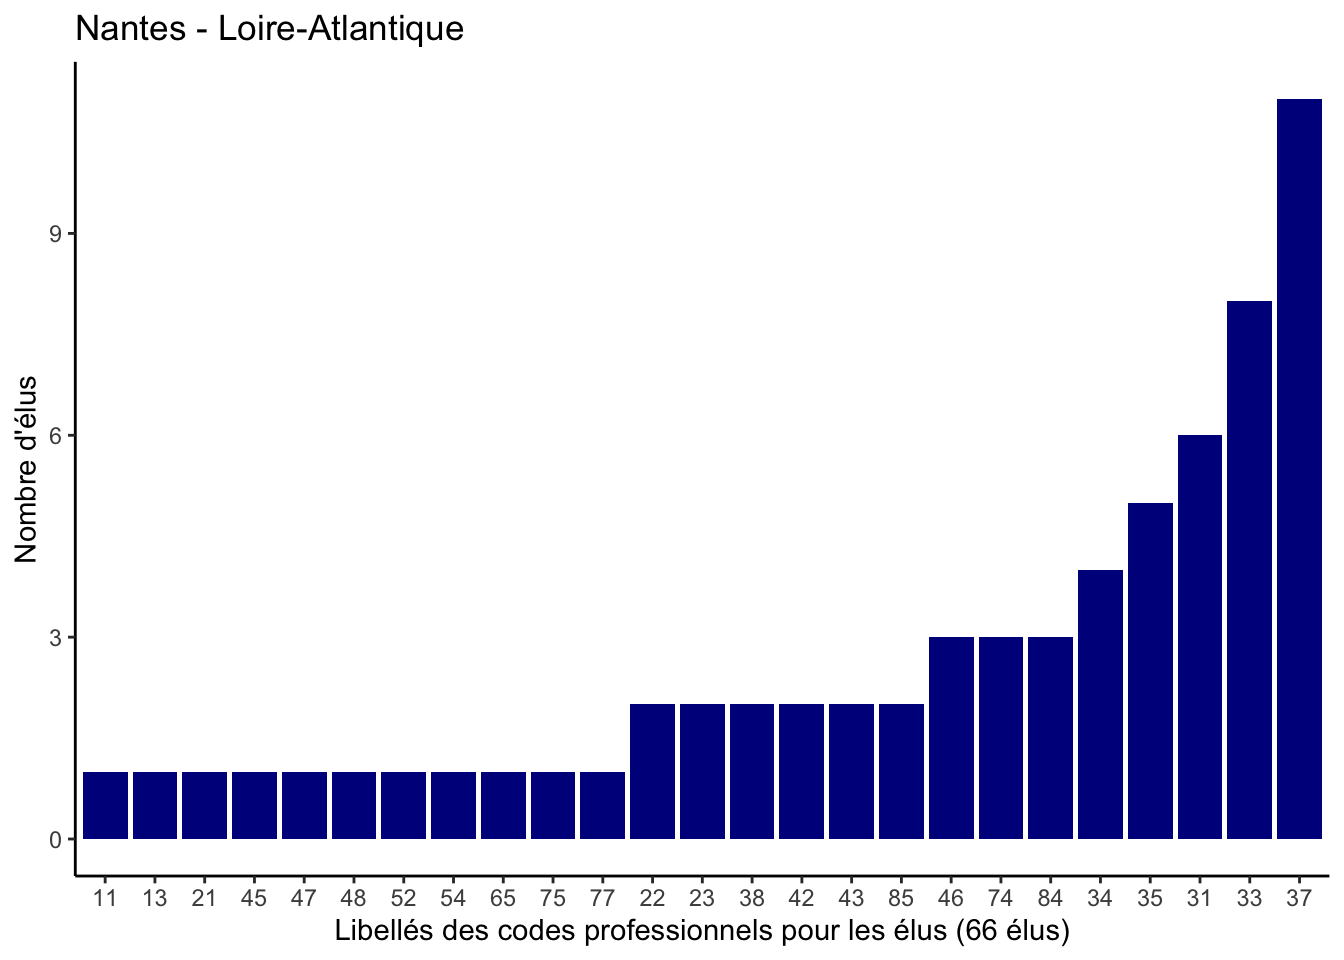
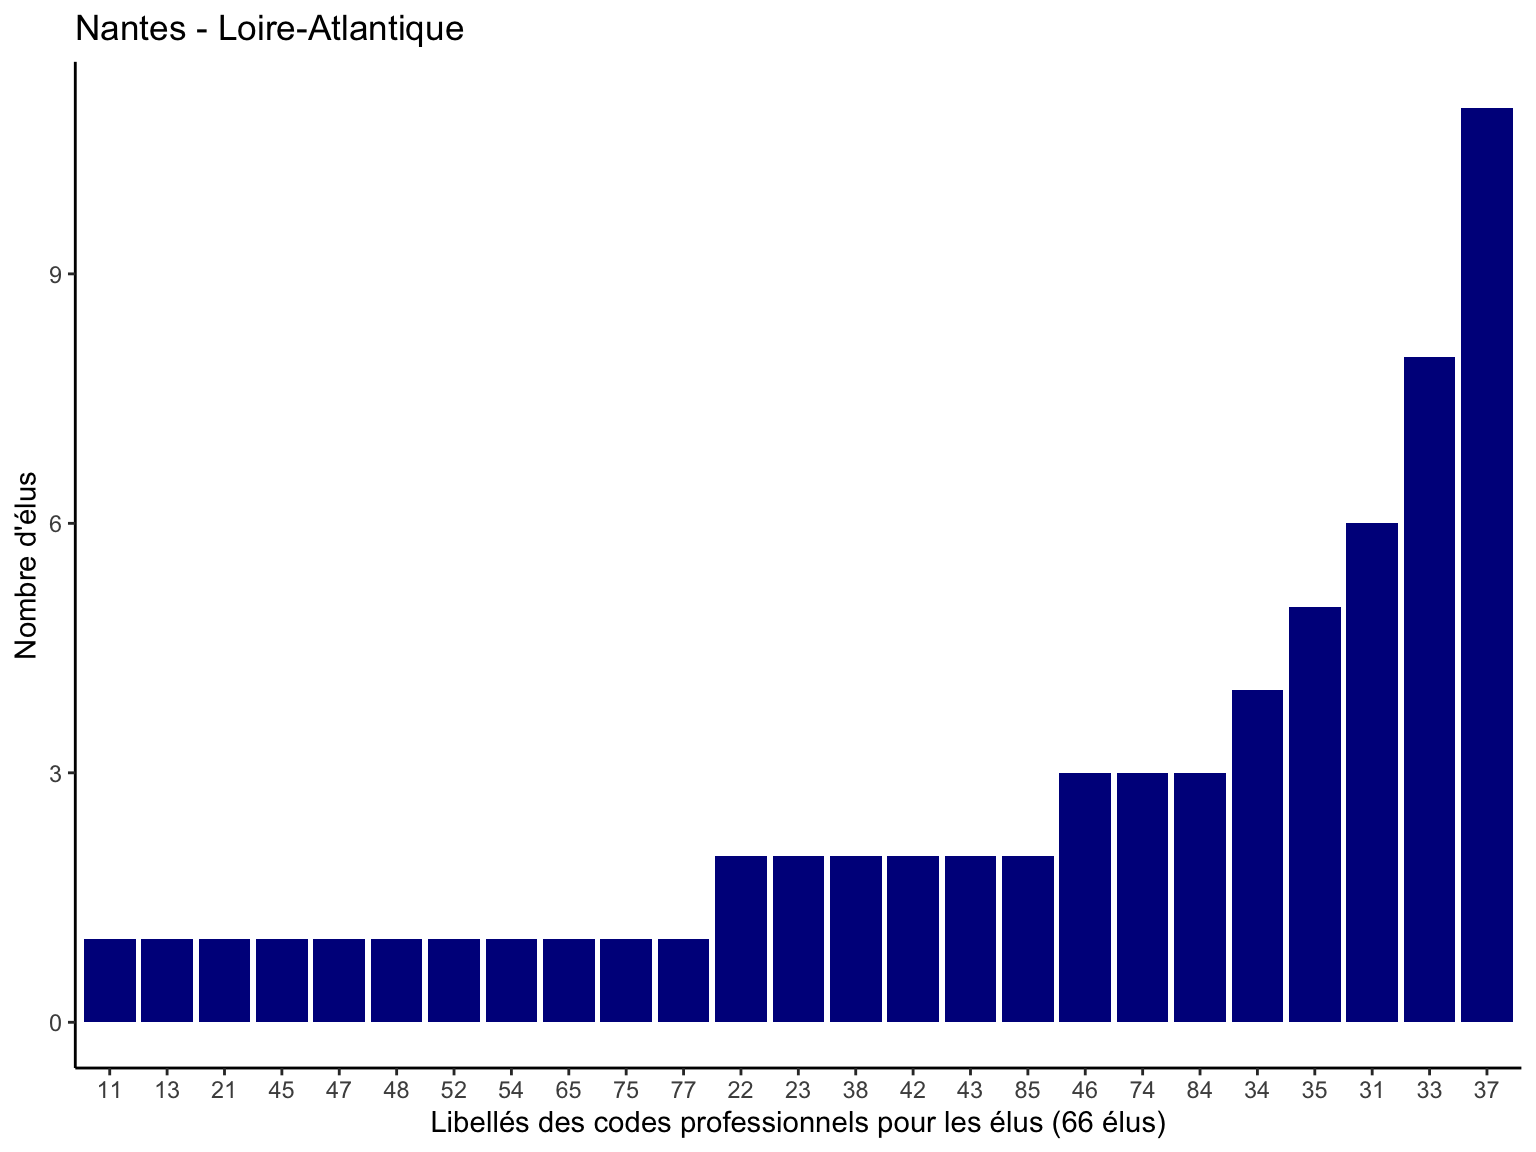
modif rapport

diff --git a/rapport_test.html b/rapport_test.html
@@ -69,7 +69,63 @@ ul.task-list li input[type="checkbox"] {
 
 <div class="cell">
 <div class="cell-output cell-output-stdout">
-<pre><code>Rapport de la ville de  </code></pre>
+<pre><code>Rapport de la ville de Nantes </code></pre>
+</div>
+</div>
+<div class="cell">
+<div class="cell-output cell-output-stdout">
+<pre><code>Nom de la commune: Nantes 
+Nombre d'élu.e.s de la commune: 66 
+
+Ditribution des âges des élu.e.s: 28 42.25 50.5 58.25 73 
+
+L'élu.e le/la plus agé.e de la commune:
+- Nom : PROCHASSON 
+- Prénom : François 
+- Âge : 73 </code></pre>
+</div>
+<div class="cell-output-display">
+<p><img src="modele_files/figure-html/unnamed-chunk-4-1.png" class="img-fluid" width="768"></p>
+</div>
+<div class="cell-output cell-output-stdout">
+<pre><code>Nom du département:  Loire-Atlantique 
+Nombre de communes:  207 
+Nombre d'élus dans le département:  4781 
+
+Distribution des âges des élu.e.s : 
+  0%  25%  50%  75% 100% 
+  22   46   54   63   84 
+
+L'élu.e le/la plus agé.e du département:
+- Nom : GERARD 
+- Prénom : Jean 
+- Âge : 84 ans
+
+L'élu.e le/la plus jeune du département:
+- Nom : MERCERON 
+- Prénom : Leslie 
+- Âge : 22 ans
+
+Commune avec la moyenne d'âge la plus faible: Ruffigné 
+Distribution des âges dans la commune:
+- Moyenne: 44.4 ans
+- Minimum: 28 ans
+- 1er quartile: 37.5 ans
+- Médiane: 44 ans
+- 3ème quartile: 49 ans
+- Maximum: 70 ans
+
+Commune avec la moyenne d'âge la plus élevée: Les Moutiers-En-Retz 
+Distribution des âges dans la commune:
+- Moyenne: 68.6 ans
+- Minimum: 50 ans
+- 1er quartile: 63.5 ans
+- Médiane: 70 ans
+- 3ème quartile: 74.5 ans
+- Maximum: 81 ans</code></pre>
+</div>
+<div class="cell-output-display">
+<p><img src="modele_files/figure-html/unnamed-chunk-4-2.png" class="img-fluid" width="768"></p>
 </div>
 </div>
 
